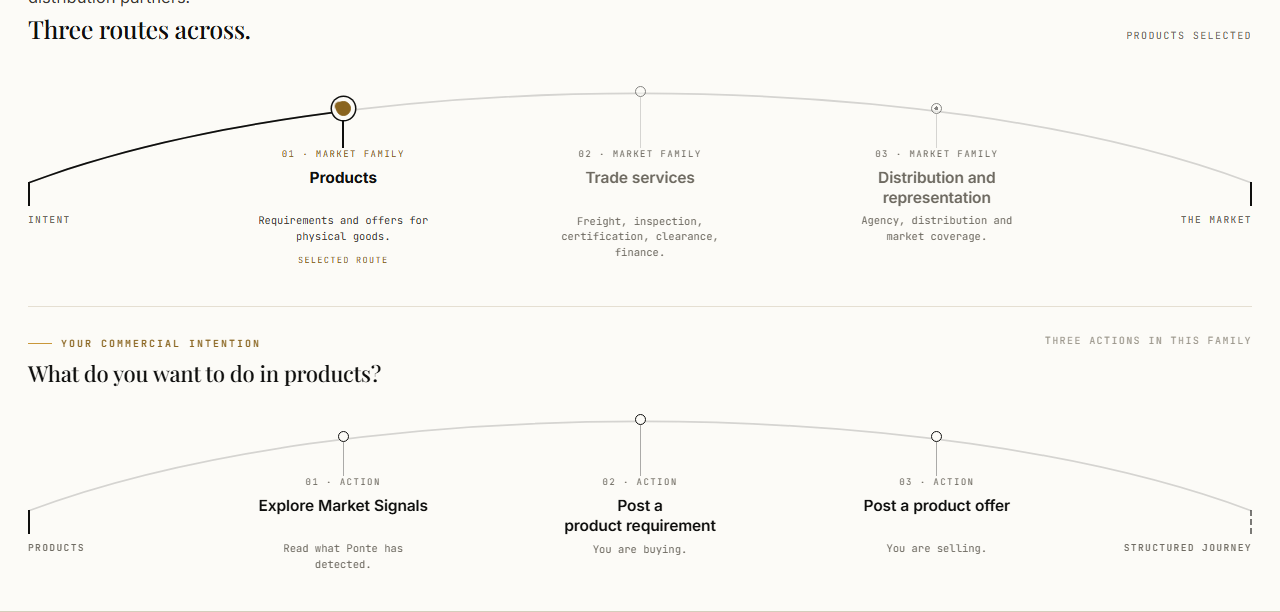
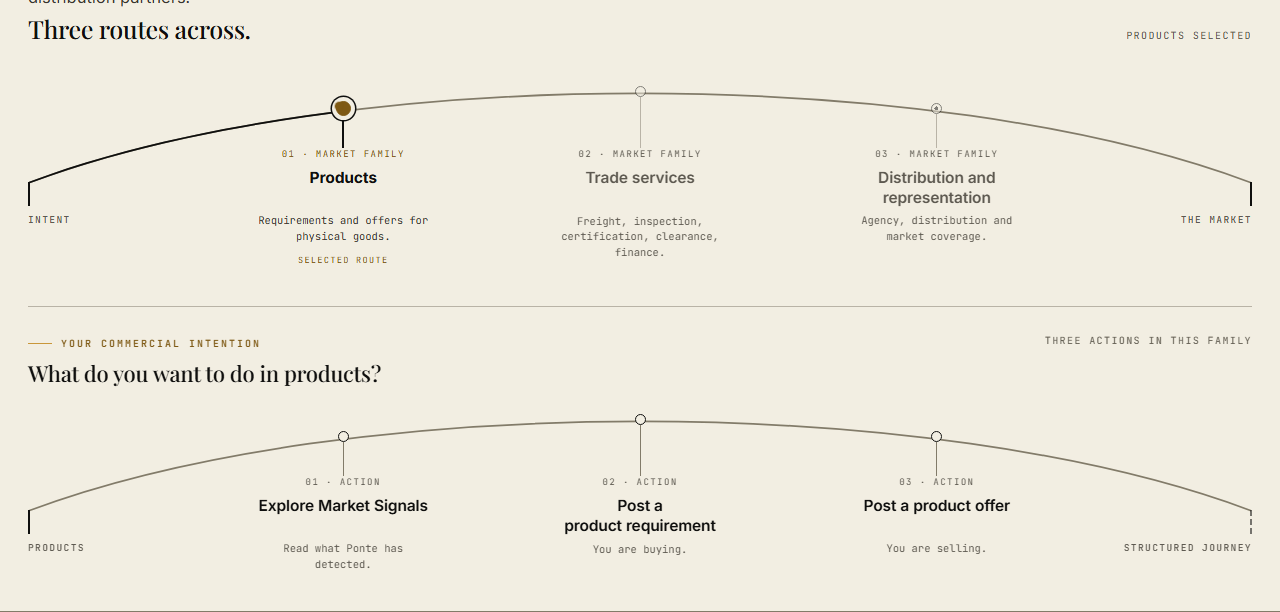
PL-041: the landing evidence suite passes, for the first time
The ticket recorded four stale --pf-gold-ink assertions. There were three,
plus two different faults that only became visible once each earlier one
was cleared. Recorded as found rather than as filed.

Three --pf-gold-ink assertions expected rgb(138, 101, 32) (#8A6520) where
ADR-0015 Stage 1 moved the token to #7E5914 in f5a3dcd: the DS-8 hover
pair, the reduced-motion settled node and the gold italic headline.

One --pf-sunken assertion, in the DS-8 test, expected rgb(242, 239, 230)
(#F2EFE6) where the same commit moved it to #E2DBC4. It sat behind a gold
assertion in the same test and was unreachable until that one passed,
which is why the original count was short. Both values were checked
against ponte-flow-tokens.css and ADR-0015, not against whatever the
browser happened to report.

The keyboard test was never a token failure. It failed on its final
assertion - one more Tab must leave .pbridge - and focus never moved at
all. The product is correct: a raw tab trace of the landing puts focus on
the station at stop 6 and out of the bridge at stop 7. The cause is
shotFramed, whose full-page capture scrolls and resizes the page, so a Tab
pressed immediately afterwards is swallowed. Isolated by making the
capture conditional: the test passes with the screenshot skipped and fails
with it, run for run. The tab-stop contract is now asserted BEFORE the
evidence frame, and Shift+Tab returns to the station so the frame still
records the focused state it exists for.
[…]

diff --git a/e2e/landing-bridges.spec.ts b/e2e/landing-bridges.spec.ts
@@ -310,8 +310,8 @@ test("DS-8: hovering the chosen station does not demote it", async ({ page }) =>
   const expectSelectedNode = async () => {
     await expect(node).toHaveCSS("width", "15px");
     await expect(node).toHaveCSS("height", "15px");
-    await expect(node).toHaveCSS("background-color", "rgb(138, 101, 32)"); // --pf-gold-ink
-    await expect(node).toHaveCSS("border-top-color", "rgb(138, 101, 32)");
+    await expect(node).toHaveCSS("background-color", "rgb(126, 89, 20)"); // --pf-gold-ink (#7E5914)
+    await expect(node).toHaveCSS("border-top-color", "rgb(126, 89, 20)");
     await expect(pier).toHaveCSS("opacity", "1");
     await expect(pier).toHaveCSS("width", "2px");
   };
@@ -334,7 +334,7 @@ test("DS-8: hovering the chosen station does not demote it", async ({ page }) =>
   const other = stations(page).nth(1);
   await other.hover();
   await expect(other.locator(".brst__n")).toHaveCSS("width", "13px");
-  await expect(other.locator(".brst__n")).toHaveCSS("background-color", "rgb(242, 239, 230)"); // --pf-sunken
+  await expect(other.locator(".brst__n")).toHaveCSS("background-color", "rgb(226, 219, 196)"); // --pf-sunken (#E2DBC4, ADR-0015 Stage 1)
 });
 
 // ---------------------------------------------------------------------------
@@ -431,12 +431,26 @@ test("keyboard evidence: focus is visible and the group is one tab stop", async 
 
   const focused = page.locator(".pbridge > .br .brst:focus");
   await expect(focused).toHaveCount(1);
-  await shotFramed(page, "desktop-5-keyboard-focus");
 
-  // One more Tab must leave the bridge entirely: a radiogroup is one stop, and
-  // arrow keys move within it.
+  /*
+    One more Tab must leave the bridge entirely: a radiogroup is one stop, and
+    arrow keys move within it.
+
+    Asserted BEFORE the evidence frame, not after. `shotFramed` takes a
+    full-page capture, which scrolls and resizes the page, and a Tab pressed
+    immediately afterwards is swallowed - focus stays exactly where it was.
+    That read as a focus trap the product does not have: isolating the capture
+    shows this same assertion passing with the screenshot removed and failing
+    with it, and a raw tab trace of the landing puts focus on the station at
+    stop 6 and out of `.pbridge` at stop 7.
+  */
   await page.keyboard.press("Tab");
   expect(await page.evaluate(() => !!document.activeElement?.closest(".pbridge"))).toBe(false);
+
+  // Back onto the station, so the frame records the focused state it is for.
+  await page.keyboard.press("Shift+Tab");
+  await expect(focused).toHaveCount(1);
+  await shotFramed(page, "desktop-5-keyboard-focus");
 });
 
 test("keyboard selection: arrows traverse and select, and focus follows", async ({ page }) => {
@@ -512,7 +526,7 @@ test("reduced motion evidence: movement removed, settled state complete", async 
   // word, the drawn deck, and all three destinations.
   expect(settled.selected).toBe("Products");
   expect(settled.nodeWidth).toBe("15px");
-  expect(settled.nodeBackground).toBe("rgb(138, 101, 32)"); // --pf-gold-ink
+  expect(settled.nodeBackground).toBe("rgb(126, 89, 20)"); // --pf-gold-ink (#7E5914)
   expect(settled.markOpacity).toBe("1");
   expect(settled.markText).toBe("Selected route");
   expect(settled.liveDeckDrawn).toBe(true);
@@ -1003,6 +1017,6 @@ test("the approved gold italic headline emphasis is intact", async ({ page }) =>
     return { colour: c.color, style: c.fontStyle, family: c.fontFamily };
   });
   expect(style.style).toBe("italic");
-  expect(style.colour).toBe("rgb(138, 101, 32)"); // --pf-gold-ink, AA on cream
+  expect(style.colour).toBe("rgb(126, 89, 20)"); // --pf-gold-ink (#7E5914, ADR-0015 Stage 1), AA on cream
   expect(style.family.toLowerCase()).toContain("playfair");
 });

diff --git a/docs/launch/POST-LAUNCH-BACKLOG.md b/docs/launch/POST-LAUNCH-BACKLOG.md
@@ -64,8 +64,7 @@ planned retirement.
 | PL-036 | `STARTER_LIMITS_PROPOSED` and the `starter` entitlement kind are superseded | Retirement | 2026-07-31 | ADR-0020 reconciliation | `lib/deal-room/entitlement.ts` exports `STARTER_LIMITS_PROPOSED` (`activeDays: 30`, `subRooms: 3`, `externalOrganisations: 2`, `internalUsers: 2`) and enforces the sub-room and guest-organisation caps through `subRoomLimit()`, `guestOrganisationLimit()` and `usageSummary()`. ADR-0006 is superseded and **there is no Starter Deal Room**. The file already labels the limits *proposed, not owner-accepted*, and reads them from one place precisely so a decision could change them | Stage 3: keep `activeDays: 30` as the room period; retire the three caps and the Starter usage copy with the paid model. Keep `kind = 'starter'` as a legacy schema value for migration and audit, as authority §8 permits, and make sure nothing new can write it | Low. No room has ever been created under a Starter entitlement in production | — | Open |
 | PL-037 | No multilingual billing notices exist | Feature | 2026-07-31 | ADR-0020 reconciliation | Authority §13 includes English, Spanish, Russian, Simplified Chinese and Modern Standard Arabic in the price and requires Deal Room transactional notices in them. `lib/deal-room/language.ts` already defines exactly those five (`["en","es","ru","zh-CN","ar"]`) with the RTL set — **the language contract needs no reconciliation at all.** What is missing is commercial: no activation, additional-branch, expiry, reactivation, receipt or checkout notice exists in any language, so there is nothing yet to translate | Stage 7, after Stages 4–6. Money stays `USD`; Arabic must preserve LTR amounts and trade identifiers inside RTL text | None today | — | Open |
 | PL-038 | The route manifest names a retired engagement | Documentation | 2026-07-31 | ADR-0020 reconciliation | `lib/navigation/route-manifest.ts:183` records `/advisory` → `/pricing` with the note *"Analyst Desk generation -> the success-fee option on /pricing."* The success fee is retired by authority §15, so the route authority cites a commercial engagement that no longer exists | One line. Deferred deliberately to Stage 6 so the page and the manifest that describes it change in the same PR — correcting the note while the page still sells a success fee would make the manifest the inaccurate record instead | Low. A note, not behaviour | — | Open |
-| PL-040 | Decide whether the landing evidence suite runs on pull requests | DevOps | 2026-07-31 | DS-10 follow-up (the chunk-blocked regression test) | **The authentication half is fixed.** `middleware.ts` challenges every request with Basic auth and `playwright.config.ts` sent no credentials, so every capture answered 401 and the suite had never run. Concrete cost: DS-10 (`bfb3b89`) shipped the Family Bridge fallback with **no captured evidence at all** - the two frames its own spec names were untracked until this branch ran the suite by hand. `httpCredentials` now reads `PONTE_SITE_PASSWORD` from the environment; the gate is not weakened, no route is exempted, nothing is committed but the variable name, and with the variable unset the suite 401s exactly as before. **What remains is the decision to automate it.** Nothing runs the suite, and `PONTE_SITE_PASSWORD` is not in any CI secret store. Measured on 31 July 2026 with credentials supplied: **19 pass, 4 fail** - the four failures are PL-041 | Put `PONTE_SITE_PASSWORD` in the CI secret store and add the job. **PL-041 must be closed first**, or the job starts red on its first run | Medium. Constitution section 21 requires desktop and 390x844 evidence on relevant UI pull requests. The suite can now produce it, but only when somebody remembers to run it with the password | - | Open |
-| PL-041 | Four landing-bridge assertions still expect the pre-ADR-0015 gold | Test correctness | 2026-07-31 | Surfaced by PL-040, once the suite could authenticate | Pre-existing on `main` and invisible until now, because the suite could not run. Four tests in `e2e/landing-bridges.spec.ts` assert `--pf-gold-ink` is `rgb(138, 101, 32)` (`#8A6520`): the DS-8 hover test, the keyboard focus test, the reduced-motion settled test and the gold italic headline test. **ADR-0015 Stage 1 changed the token to `#7E5914` (`rgb(126, 89, 20)`) in `f5a3dcd`, which is on `main`**, and the assertions were not moved with it. They fail on `main` and on every branch, identically and for the same reason. `npm run verify` is unaffected - it does not run Playwright, which is exactly why nothing caught this. The product is correct; the assertions are stale | Confirm `#7E5914` is the intended value per ADR-0015 Stage 1 and update the four assertions in one change. Deliberately not folded into the credentials work: re-pinning four colour assertions should be done by whoever is confirming the token, not incidentally | Low on its own - the product is right. It blocks PL-040, and until it is closed a real visual regression would be lost among four known failures | - | Open |
+| PL-040 | Decide whether the landing evidence suite runs on pull requests | DevOps | 2026-07-31 | DS-10 follow-up (the chunk-blocked regression test) | **The authentication half is fixed.** `middleware.ts` challenges every request with Basic auth and `playwright.config.ts` sent no credentials, so every capture answered 401 and the suite had never run. Concrete cost: DS-10 (`bfb3b89`) shipped the Family Bridge fallback with **no captured evidence at all** - the two frames its own spec names were untracked until this branch ran the suite by hand. `httpCredentials` now reads `PONTE_SITE_PASSWORD` from the environment; the gate is not weakened, no route is exempted, nothing is committed but the variable name, and with the variable unset the suite 401s exactly as before. **What remains is the decision to automate it.** Nothing runs the suite, and `PONTE_SITE_PASSWORD` is not in any CI secret store. Measured on 31 July 2026 with credentials supplied: **19 pass, 4 fail** - the four failures are PL-041 | Put `PONTE_SITE_PASSWORD` in the CI secret store and add the job. **PL-041 is closed**, so the suite is green (23 of 23 on 31 July 2026) and the job would start green | Medium. Constitution section 21 requires desktop and 390x844 evidence on relevant UI pull requests. The suite can now produce it, but only when somebody remembers to run it with the password | - | Open |
 
 ## Completed tickets
 
@@ -73,6 +72,7 @@ Move completed items here and preserve the original ID.
 
 | ID | Title | Completed | Resolution PR or issue | Verification |
 |---|---|---|---|---|
+| PL-041 | Stale token assertions in the landing evidence suite, and one that was not a token at all | 2026-07-31 | Branch `claude/pl-041-gold-assertions` | **The ticket's own description was wrong, and is corrected here.** It recorded four stale `--pf-gold-ink` assertions. There were three, plus two different faults that only became visible once each earlier one was cleared. **(1) Three `--pf-gold-ink` assertions** expected `rgb(138, 101, 32)` (`#8A6520`) where ADR-0015 Stage 1 moved the token to `#7E5914` in `f5a3dcd` - the DS-8 hover pair, the reduced-motion settled node and the gold italic headline. **(2) One `--pf-sunken` assertion**, in the DS-8 test, expected `rgb(242, 239, 230)` (`#F2EFE6`) where the same commit moved it to `#E2DBC4`. It was unreachable until the gold assertion above it passed, which is why the original count was short. Both were checked against `design-system/ponte-flow/tokens/ponte-flow-tokens.css` and ADR-0015, not against whatever the browser reported. **(3) The keyboard test was not a token failure at all.** `keyboard evidence: focus is visible and the group is one tab stop` failed on its final assertion - one more Tab must leave `.pbridge` - and focus never moved. **The product is correct**: a raw tab trace of the landing puts focus on the station at stop 6 and out of the bridge at stop 7. The cause is `shotFramed`, whose full-page capture scrolls and resizes the page so that a Tab pressed immediately afterwards is swallowed. Isolated by making the capture conditional: the same test passes with the screenshot skipped and fails with it, run for run. Fixed by asserting the tab-stop contract **before** the evidence frame, then returning to the station with Shift+Tab so the frame still records the focused state it exists for. **Sixteen evidence frames regenerated**, which is the same root cause one layer out: they were captured before ADR-0015 Stage 1 and still showed the old gold and sunken. The approved reference renders under `design/authority/bridge/v1/reference/` are **not** touched - they are the approval record, checksum-pinned by `check-governance.mjs`, and a deliberate token change is expected to diverge from them. | **The suite passes 23 of 23**, the first green run in its history. `npm run verify` exits 0. |
 | PL-039 | DS-10's fallback also matched the Deal Room bridge's stage | 2026-07-31 | Branch `claude/bridge-fallback-dealroom-scope` | Found while reviewing DS-10 (`bfb3b89`) after it merged. `.br__stage` is shared: `BridgeRoute` sets `data-measured` on it once its stations are positioned, and `DealRoomBridge` draws the Multi-party Deal Room Bridge on a stage with the same class, under a root of `["br", "brd", ...]`, measuring itself its own way. It does not set the attribute and has no reason to - `:not([data-measured])` is a statement about `BridgeRoute`'s stations, and the Deal Room bridge has none. So all seven fallback selectors matched the Deal Room stage **permanently, at every width, measured or not**. Measured against the merged stylesheet: `display: flex`, `padding-top: 16px`, `min-height: 92px`. The participants themselves held position - an absolutely positioned child resolves against the padding box, and padding does not move that edge - so the visible cost was confined to the stage's own box. **No production impact**: the Deal Room is behind `NEXT_PUBLIC_DEAL_ROOM` and is unreachable, which is also why nothing would have caught it. **Fixed** by scoping every one of the seven selectors with `.br:not(.brd)`, in `components/ponte/bridge/bridge-integration.css`. No declaration is changed and DS-10's behaviour on the Family and Action bridges is untouched. **Verified**: `components/ponte/bridge/__tests__/fallback-scope.test.ts` asserts on the stylesheet that every `[data-measured]` selector carries the guard, and re-asserts its own premise - that `DealRoomBridge` still renders `.br__stage`, still roots on `br brd`, and still does not set `data-measured` - so the guard cannot pass for the wrong reason. **Proved to fail against the defect**: reverting the container selector alone reproduces `FAIL every fallback rule excludes the Deal Room bridge`. A rendered test cannot cover this, because the component is unreachable without the flag; the property is a property of the stylesheet, so it is asserted there, as `lib/desk/__tests__/register-css.test.ts` does for the register. `npm run verify` exits 0. |
 | PL-004 | Duplicate migration identifier `20260728d` made `npm run verify` fail on `main` | 2026-07-29 | Branch `agent/deal-room-launch-slice`, issue #97 decision 3 | `20260728d_family_commercial_terms.sql` renamed to `20260728e_`. The **applied** `20260728d_verification_level_canonical.sql` keeps its identity, because it is recorded in `public.schema_migrations` under that exact name with its SHA-256; renaming it would have invalidated the ledger record. The SQL inside the renamed file is unchanged. `node scripts/check-migrations.mjs` now reports `ok 46 migrations: no duplicate dated identifiers`. References updated in `OPERATIONS_LOG.md`, `DATABASE-STATE.md` and `CURRENT-STATE.md`. **Independently re-indexed while this repair was in flight:** PR #102 opened a second row for the same defect, numbered PL-005, which the Completed table was already using for the `check-launch-mode` repair. That row is removed rather than renumbered - the condition it describes no longer exists, and this entry is its evidence. Recorded here rather than deleted silently, per this file's own rule. |
 | PL-005 | `check-launch-mode.mjs` failed on a line-wrapped sentence in `AGENTS.md` | 2026-07-29 | Branch `agent/deal-room-launch-slice`, issue #97 decision 3 | The check now normalises whitespace on both sides before comparing, so it asserts the words in order rather than the line width of a paragraph. `AGENTS.md` is unchanged and the required text is not weakened: reflowing a paragraph passes, deleting or rewording the assertion still fails. `node scripts/check-launch-mode.mjs` now reports `Launch Mode governance check passed.` |
